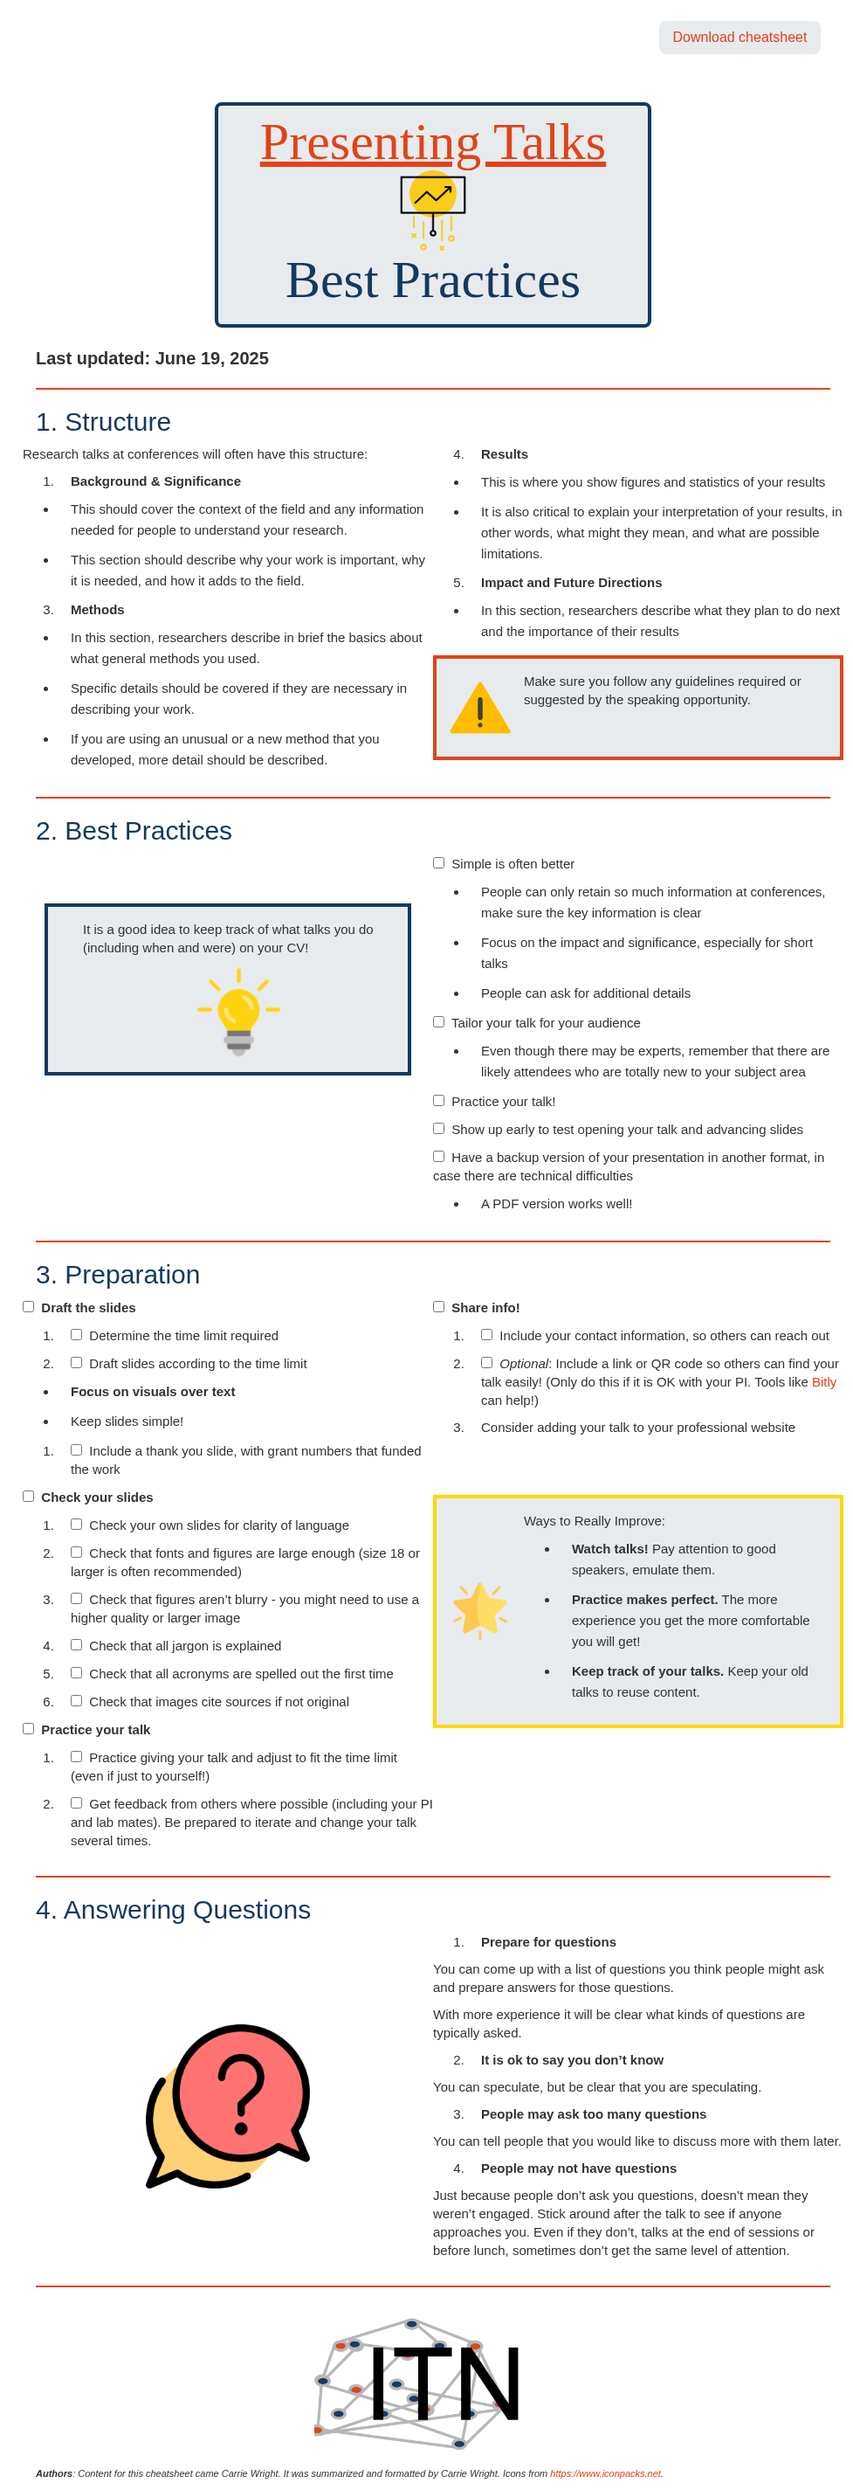
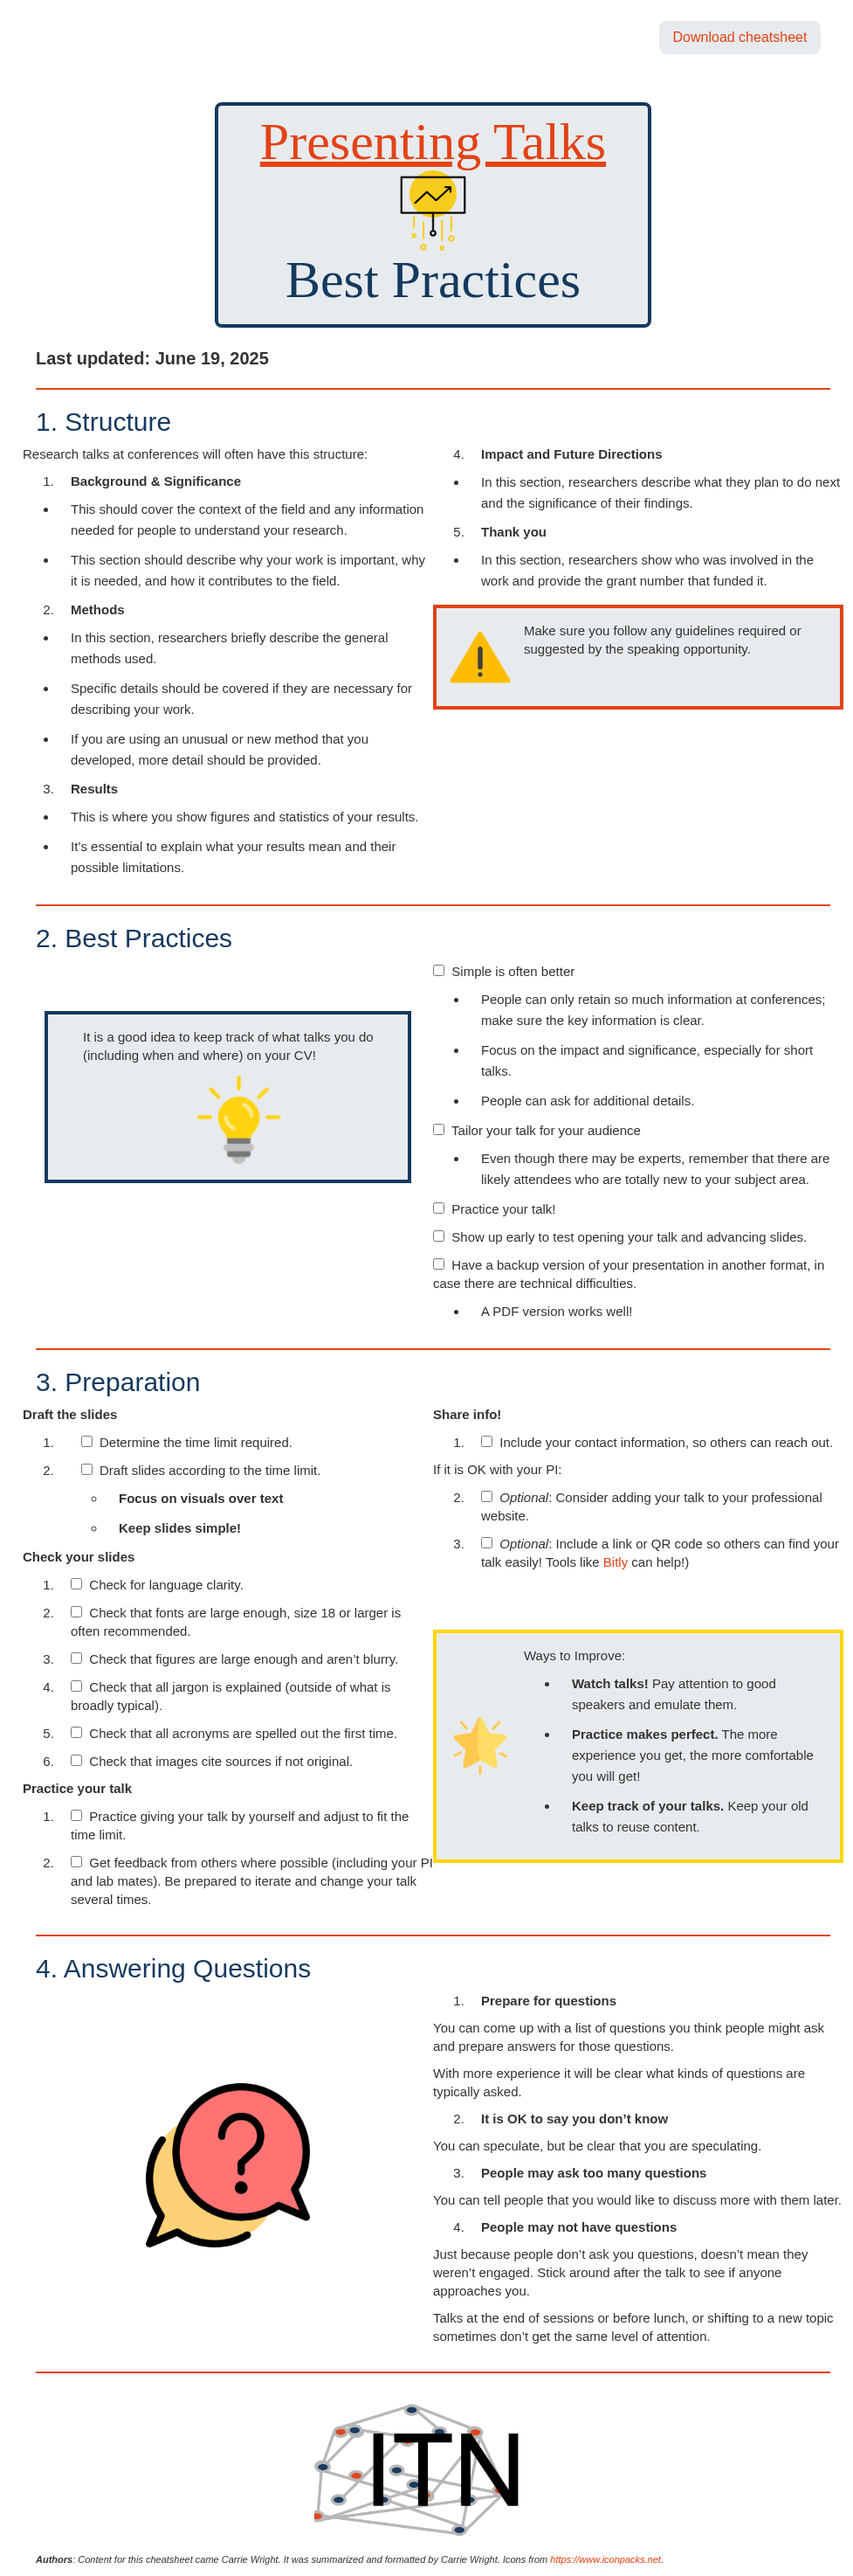
Render site

diff --git a/docs/talks.html b/docs/talks.html
@@ -192,36 +192,42 @@ cheatsheet</a>
 <li>This should cover the context of the field and any information
 needed for people to understand your research.</li>
 <li>This section should describe why your work is important, why it is
-needed, and how it adds to the field.</li>
+needed, and how it contributes to the field.</li>
 </ul>
-<ol start="3" style="list-style-type: decimal">
+<ol start="2" style="list-style-type: decimal">
 <li><strong>Methods</strong></li>
 </ol>
 <ul>
-<li>In this section, researchers describe in brief the basics about what
-general methods you used.</li>
-<li>Specific details should be covered if they are necessary in
+<li>In this section, researchers briefly describe the general methods
+used.</li>
+<li>Specific details should be covered if they are necessary for
 describing your work.</li>
-<li>If you are using an unusual or a new method that you developed, more
-detail should be described.</li>
+<li>If you are using an unusual or new method that you developed, more
+detail should be provided.</li>
+</ul>
+<ol start="3" style="list-style-type: decimal">
+<li><strong>Results</strong></li>
+</ol>
+<ul>
+<li>This is where you show figures and statistics of your results.</li>
+<li>It’s essential to explain what your results mean and their possible
+limitations.</li>
 </ul>
 </div>
 <div class="column">
 <ol start="4" style="list-style-type: decimal">
-<li><strong>Results</strong></li>
-</ol>
-<ul>
-<li>This is where you show figures and statistics of your results</li>
-<li>It is also critical to explain your interpretation of your results,
-in other words, what might they mean, and what are possible
-limitations.</li>
-</ul>
-<ol start="5" style="list-style-type: decimal">
 <li><strong>Impact and Future Directions</strong></li>
 </ol>
 <ul>
 <li>In this section, researchers describe what they plan to do next and
-the importance of their results</li>
+the significance of their findings.</li>
+</ul>
+<ol start="5" style="list-style-type: decimal">
+<li><strong>Thank you</strong></li>
+</ol>
+<ul>
+<li>In this section, researchers show who was involved in the work and
+provide the grant number that funded it.</li>
 </ul>
 <center>
 <div class="warning">
@@ -241,7 +247,7 @@ speaking opportunity.</p>
 <center>
 <div class="Note">
 <p>It is a good idea to keep track of what talks you do (including when
-and were) on your CV!</p>
+and where) on your CV!</p>
 <center>
 <img src="css/images/bulb.png" width = 30%>
 </center>
@@ -251,22 +257,22 @@ and were) on your CV!</p>
 <div class="column">
 <p><input type="checkbox"> Simple is often better</p>
 <ul>
-<li><p>People can only retain so much information at conferences, make
-sure the key information is clear</p></li>
+<li><p>People can only retain so much information at conferences; make
+sure the key information is clear.</p></li>
 <li><p>Focus on the impact and significance, especially for short
-talks</p></li>
-<li><p>People can ask for additional details</p></li>
+talks.</p></li>
+<li><p>People can ask for additional details.</p></li>
 </ul>
 <p><input type="checkbox"> Tailor your talk for your audience</p>
 <ul>
 <li>Even though there may be experts, remember that there are likely
-attendees who are totally new to your subject area</li>
+attendees who are totally new to your subject area.</li>
 </ul>
 <p><input type="checkbox"> Practice your talk!</p>
 <p><input type="checkbox"> Show up early to test opening your talk and
-advancing slides</p>
+advancing slides.</p>
 <p><input type="checkbox"> Have a backup version of your presentation in
-another format, in case there are technical difficulties</p>
+another format, in case there are technical difficulties.</p>
 <ul>
 <li>A PDF version works well!</li>
 </ul>
@@ -278,65 +284,63 @@ another format, in case there are technical difficulties</p>
 <h2 class="unnumbered">Preparation</h2>
 <div class="row">
 <div class="column">
-<p><input type="checkbox"> <strong>Draft the slides</strong></p>
+<p><strong>Draft the slides</strong></p>
 <ol style="list-style-type: decimal">
-<li><p><input type="checkbox"> Determine the time limit
-required</p></li>
-<li><p><input type="checkbox"> Draft slides according to the time
-limit</p></li>
-</ol>
+<li><p>  <input type="checkbox"> Determine the time limit
+required.</p></li>
+<li><p>  <input type="checkbox"> Draft slides according to the time
+limit.</p>
 <ul>
 <li><strong>Focus on visuals over text</strong></li>
-<li>Keep slides simple!</li>
-</ul>
-<ol style="list-style-type: decimal">
-<li><input type="checkbox"> Include a thank you slide, with grant
-numbers that funded the work</li>
+<li><strong>Keep slides simple!</strong></li>
+</ul></li>
 </ol>
-<p><input type="checkbox"> <strong>Check your slides</strong></p>
+<p><strong>Check your slides</strong></p>
 <ol style="list-style-type: decimal">
-<li><p><input type="checkbox"> Check your own slides for clarity of
-language</p></li>
-<li><p><input type="checkbox"> Check that fonts and figures are large
-enough (size 18 or larger is often recommended)</p></li>
-<li><p><input type="checkbox"> Check that figures aren’t blurry - you
-might need to use a higher quality or larger image</p></li>
-<li><p><input type="checkbox"> Check that all jargon is
-explained</p></li>
+<li><p><input type="checkbox"> Check for language clarity.</p></li>
+<li><p><input type="checkbox"> Check that fonts are large enough, size
+18 or larger is often recommended.</p></li>
+<li><p><input type="checkbox"> Check that figures are large enough and
+aren’t blurry.</p></li>
+<li><p><input type="checkbox"> Check that all jargon is explained
+(outside of what is broadly typical).</p></li>
 <li><p><input type="checkbox"> Check that all acronyms are spelled out
-the first time</p></li>
+the first time.</p></li>
 <li><p><input type="checkbox"> Check that images cite sources if not
-original</p></li>
+original.</p></li>
 </ol>
-<p><input type="checkbox"> <strong>Practice your talk</strong></p>
+<p><strong>Practice your talk</strong></p>
 <ol style="list-style-type: decimal">
-<li><p><input type="checkbox"> Practice giving your talk and adjust to
-fit the time limit (even if just to yourself!)</p></li>
+<li><p><input type="checkbox"> Practice giving your talk by yourself and
+adjust to fit the time limit.</p></li>
 <li><p><input type="checkbox"> Get feedback from others where possible
 (including your PI and lab mates). Be prepared to iterate and change
 your talk several times.</p></li>
 </ol>
 </div>
 <div class="column">
-<p><input type="checkbox"> <strong>Share info!</strong></p>
+<p><strong>Share info!</strong></p>
 <ol style="list-style-type: decimal">
-<li><p><input type="checkbox"> Include your contact information, so
-others can reach out</p></li>
+<li><input type="checkbox"> Include your contact information, so others
+can reach out.</li>
+</ol>
+<p>If it is OK with your PI:</p>
+<ol start="2" style="list-style-type: decimal">
+<li><p><input type="checkbox"> <em>Optional</em>: Consider adding your
+talk to your professional website.</p></li>
 <li><p><input type="checkbox"> <em>Optional</em>: Include a link or QR
-code so others can find your talk easily! (Only do this if it is OK with
-your PI. Tools like <a href="https://app.bitly.com/">Bitly</a> can
-help!)</p></li>
-<li><p>Consider adding your talk to your professional website</p></li>
+code so others can find your talk easily! Tools like <a
+href="https://app.bitly.com/">Bitly</a> can help!)</p></li>
 </ol>
 <br> <br>
 <center>
 <div class="star">
-<p>Ways to Really Improve:</p>
+<p>Ways to Improve:</p>
 <ul>
-<li><strong>Watch talks!</strong> Pay attention to good speakers,
+<li><strong>Watch talks!</strong> Pay attention to good speakers and
 emulate them.</li>
-<li><strong>Practice makes perfect.</strong> The more experience you get
-the more comfortable you will get!</li>
+<li><strong>Practice makes perfect.</strong> The more experience you
+get, the more comfortable you will get!</li>
 <li><strong>Keep track of your talks.</strong> Keep your old talks to
 reuse content.</li>
 </ul>
@@ -365,7 +369,7 @@ and prepare answers for those questions.</p>
 <p>With more experience it will be clear what kinds of questions are
 typically asked.</p>
 <ol start="2" style="list-style-type: decimal">
-<li><strong>It is ok to say you don’t know</strong></li>
+<li><strong>It is OK to say you don’t know</strong></li>
 </ol>
 <p>You can speculate, but be clear that you are speculating.</p>
 <ol start="3" style="list-style-type: decimal">
@@ -378,8 +382,9 @@ later.</p>
 </ol>
 <p>Just because people don’t ask you questions, doesn’t mean they
 weren’t engaged. Stick around after the talk to see if anyone approaches
-you. Even if they don’t, talks at the end of sessions or before lunch,
-sometimes don’t get the same level of attention.</p>
+you.</p>
+<p>Talks at the end of sessions or before lunch, or shifting to a new
+topic sometimes don’t get the same level of attention.</p>
 </div>
 </div>
 <hr>

diff --git a/docs/index.html b/docs/index.html
@@ -205,7 +205,7 @@ window.Quarto = {
   <div class="card border-2 rounded-3 g-col-12 g-col-sm-6 g-col-md-4 mb-2" data-index="1">
     <div class="card-header py-1 px-2 border-bottom border-1 bg-light">
       <small class="card-text inline-block">
-        <a href="https://ottrproject.org/cheatsheets/talks.html" class="listing-title">Preparing Talks</a>
+        <a href="https://ottrproject.org/cheatsheets/talks.html" class="listing-title">Presenting Talks</a>
          
         <a href="https://github.com/ottrproject/cheatsheets/blob/main/talks.Rmd" title="View source code" class="source-code card-text float-end inline-block">
           <i class="bi-code-slash"></i>
